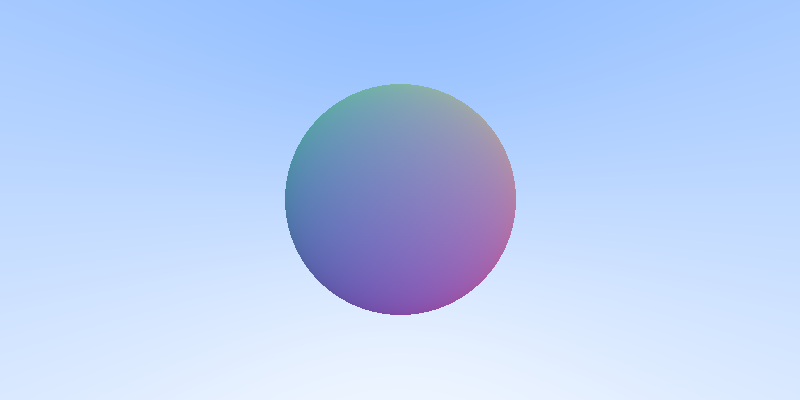
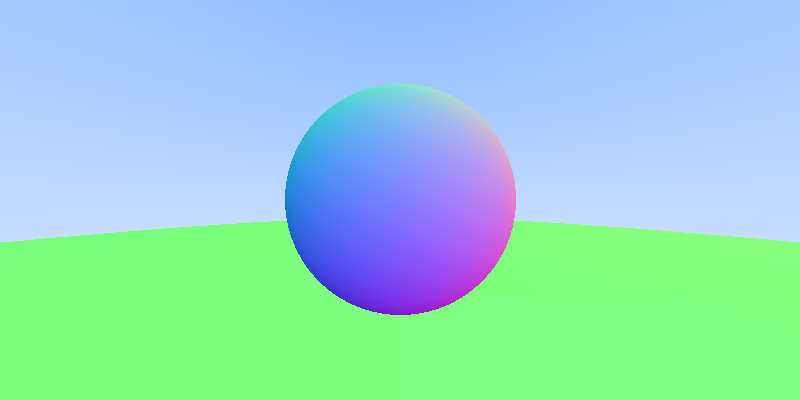
Implement hit traits and collections of hittable objects

diff --git a/src/main.rs b/src/main.rs
@@ -1,52 +1,32 @@
 extern crate cgmath;
 extern crate image;
 
+mod hit;
+mod hittable_list;
 mod ray;
+mod sphere;
 
 use cgmath::prelude::*;
 use cgmath::Vector3;
 
 use image::Pixel;
 
+use hit::Hittable;
 use ray::Ray;
 
-// Linearly blend white and blue depending on the y coordinate
-fn color(ray: Ray) -> Vector3<f32> {
-    // Check if ray hit sphere. If it does, it returns the point along the ray
-    // that hit the sphere
-    let t = hit_sphere(Vector3::new(0.0, 0.0, -1.0), 0.5, ray);
-    // It hit the sphere at some value t so calculate surface normals at that point
-    if t > 0.0 {
-        // The normal simply points directly from the center to the point on the surface
-        // of the sphere. Which can be found by subtracting the center from the point
-        // on the surface given by ray.point_at_distance(t)
-        let mut normal = ray.point_at_distance(t) - Vector3::new(0.0, 0.0, -1.0);
-        normal.normalize();
-        return 0.5 * Vector3::new(normal.x + 1.0, normal.y + 1.0, normal.z + 1.0);
-    }
-
-    // Normalize ray height to -1.0 to 1.0
-    let unit_dir = ray.direction().normalize();
-    
-    // Scale ray to range 0.0 to 1.0 to get lerp factor
-    let t = 0.5 * (unit_dir.y + 1.0);
-
-    // Lerp height to get color
-    // Blended Value = (1 - t) * start_value + t * end_value
-    (1.0 - t) * Vector3::new(1.0, 1.0, 1.0) + t * Vector3::new(0.5, 0.7, 1.0)
-}
-
-fn hit_sphere(center: Vector3<f32>, radius: f32, ray: Ray) -> f32 {
-    let oc = ray.origin() - center;
-    let a = ray.direction().dot(ray.direction());
-    let b = 2.0 * oc.dot(ray.direction());
-    let c = oc.dot(oc) - (radius * radius);
-    let discriminant = (b * b) - (4.0 * a * c);
-
-    if discriminant < 0.0 {
-        -1.0
+fn color<H: Hittable>(ray: Ray, world: &H) -> Vector3<f32> {
+    if let Some(record) = world.hit(ray, 0.0, 1000.0) {
+        // Normalize normals to be between 0 and 1 for color
+        0.5 * record.normal.add_element_wise(1.0)
     } else {
-        (-b - discriminant.sqrt()) / (2.0 * a)
+        // Linearly blend white and blue depending on the y coordinate to get background
+        // Normalize ray height to -1.0 to 1.0
+        let unit_dir = ray.direction().normalize();
+        // Scale ray to range 0.0 to 1.0 to get lerp factor
+        let t = 0.5 * (unit_dir.y + 1.0);
+        // Lerp height to get color
+        // Blended Value = (1 - t) * start_value + t * end_value
+       (1.0 - t) * Vector3::new(1.0, 1.0, 1.0) + t * Vector3::new(0.5, 0.7, 1.0)
     }
 }
 
@@ -61,13 +41,18 @@ fn main() {
 
     // Bounds are 4 wide and 2 vertically
     let lower_left_corner = Vector3::new(-width, -height, -1.0);
-
     // Horizontal bounds
     let horizontal_scale = Vector3::new(width * 2.0, 0.0, 0.0);
     // Vertical bounds
     let vertical_scale = Vector3::new(0.0, height * 2.0, 0.0);
-
     let origin = Vector3::new(0.0, 0.0, 0.0);
+
+    let small_sphere = sphere::Sphere::new(Vector3::new(0.0, 0.0, -1.0), 0.5);
+    let big_sphere = sphere::Sphere::new(Vector3::new(0.0, -100.5, -1.0), 100.0);
+
+    let mut world = hittable_list::HittableList::new();
+    world.insert(Box::new(small_sphere));
+    world.insert(Box::new(big_sphere));
 
     for j in 0..ny {
         for i in 0..nx {
@@ -79,11 +64,14 @@ fn main() {
                                horizontal_offset * horizontal_scale +
                                vertical_offset * vertical_scale);
 
-            let mut rgb = color(ray);
+            let mut rgb = color(ray, &world);
 
+            // Convert from colors in range 0.0..1.0 to 0..255
             rgb *= 255.99;
+            // Cast to bytes for storage
             let rgb = rgb.cast::<u8>();
             let pixel = image::Rgba::from_channels(rgb.x, rgb.y, rgb.z, 255);
+            // Reverse image beacuse I am indexing from top-down
             image_buffer.put_pixel(i, ny - j - 1, pixel);
         }
     }

diff --git a/src/sphere.rs b/src/sphere.rs
@@ -1,0 +1,64 @@
+use cgmath::prelude::*;
+use cgmath::Vector3;
+
+use hit::{Hittable, HitRecord};
+use ray::Ray;
+
+pub struct Sphere {
+    center: Vector3<f32>,
+    radius: f32,
+}
+
+impl Sphere {
+    pub fn new(center: Vector3<f32>, radius: f32) -> Self {
+        Sphere {
+            center,
+            radius,
+        }
+    }
+}
+
+impl Hittable for Sphere {
+    fn hit(&self, ray: Ray, t_min: f32, t_max: f32) -> Option<HitRecord> {
+        let oc = ray.origin() - self.center;
+        let a = ray.direction().dot(ray.direction());
+        let b = oc.dot(ray.direction());
+        let c = oc.dot(oc) - (self.radius * self.radius);
+        let discriminant = (b * b) - (a * c);
+
+        // It hit something
+        if discriminant > 0.0 {
+            // The hit function is a quadratic so we must find both roots since
+            // it is a sphere
+            let tmp_t = (-b - discriminant.sqrt()) / a;
+            if tmp_t < t_max && tmp_t > t_min {
+                let position = ray.point_at_distance(tmp_t);
+
+                let record = HitRecord {
+                    t: tmp_t,
+                    position,
+                    normal: (position - self.center).normalize(),
+                };
+
+                return Some(record);
+            };
+
+            // Check second square root
+            let tmp_t = (-b + discriminant.sqrt()) / a;
+            if tmp_t < t_max && tmp_t > t_min {
+                let position = ray.point_at_distance(tmp_t);
+
+                let record = HitRecord {
+                    t: tmp_t,
+                    position,
+                    normal: (position - self.center).normalize(),
+                };
+
+                return Some(record);
+            };
+        }
+
+        // It didn't hit anything so return None
+        None
+    }
+}

diff --git a/src/hittable_list.rs b/src/hittable_list.rs
@@ -1,0 +1,47 @@
+use cgmath::prelude::*;
+
+use hit::{Hittable, HitRecord};
+use ray::Ray;
+
+pub struct HittableList {
+    hittable: Vec<Box<Hittable>>,
+}
+
+impl HittableList {
+    pub fn new() -> Self {
+        HittableList {
+            hittable: Vec::new(),
+        }
+    }
+
+    pub fn insert(&mut self, obj: Box<Hittable>) {
+        self.hittable.push(obj);
+    }
+}
+
+// Returns the closest object in the colleciton to the camera
+// since all others would be occluded
+impl Hittable for HittableList {
+    fn hit(&self, ray: Ray, t_min: f32, t_max: f32) -> Option<HitRecord> {
+        let mut current_closest_hit = None;
+
+        for hittable in &self.hittable {
+            if let Some(record) = hittable.hit(ray, t_min, t_max) {
+                match current_closest_hit {
+                    None => current_closest_hit = Some(record),
+                    Some(closest) => {
+                        // Calculate distances from origin to determine which is closer
+                        let closest_distance = closest.position.distance2(ray.origin());
+                        let current_distance = record.position.distance2(ray.origin());
+
+                        if current_distance < closest_distance {
+                            current_closest_hit = Some(record);
+                        }
+                    }
+                }
+            }
+        }
+
+        current_closest_hit
+    }
+}

diff --git a/src/hit.rs b/src/hit.rs
@@ -1,0 +1,28 @@
+use cgmath::Vector3;
+use cgmath::Zero;
+
+use ray::Ray;
+
+pub trait Hittable {
+    fn hit(&self, ray: Ray, t_min: f32, t_max: f32) -> Option<HitRecord>;
+}
+
+#[derive(Clone, Copy, Debug)]
+pub struct HitRecord {
+    // Distance along ray that it hit
+    pub t: f32,
+    // Position in the world that ray intersected
+    pub position: Vector3<f32>,
+    // Surface normal at the point where the ray hit
+    pub normal: Vector3<f32>,
+}
+
+impl Default for HitRecord {
+    fn default() -> Self {
+        HitRecord {
+            t: 0.0,
+            position: Vector3::<f32>::zero(),
+            normal: Vector3::<f32>::zero(),
+        }
+    }
+}
